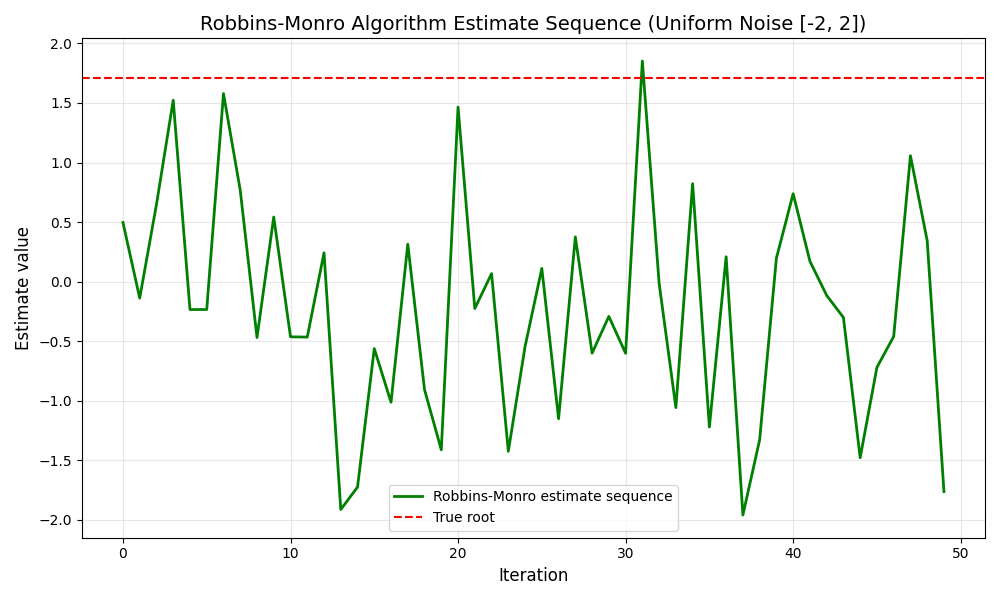
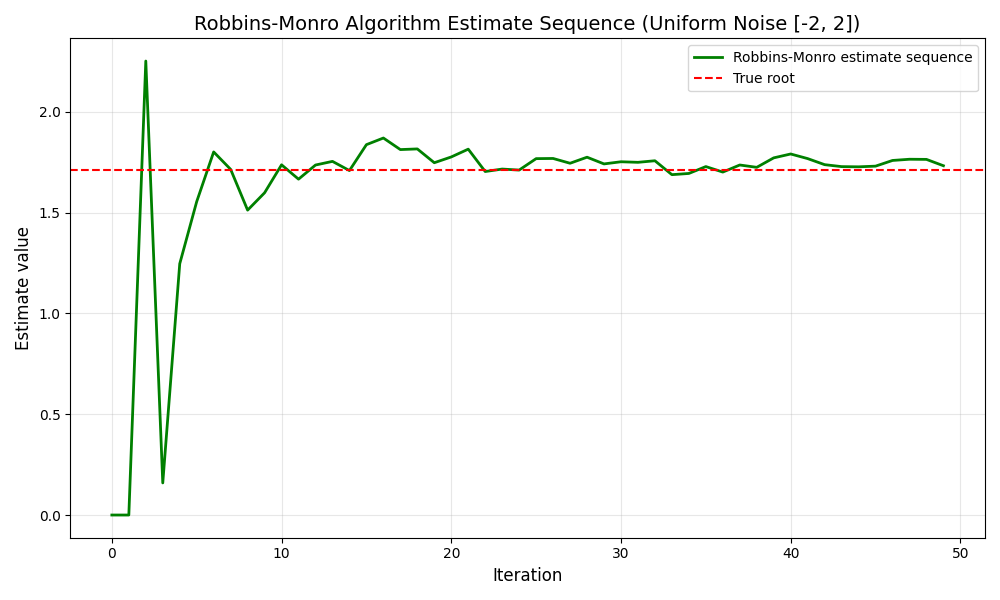
append

diff --git a/rm.py b/rm.py
@@ -17,26 +17,22 @@ initial_estimate = 0.0  # 初始估计值
 # 初始化nws数组，用于存储迭代结果
 nws = np.zeros(n_iterations)
 etas = np.zeros(n_iterations)
-current_estimate = initial_estimate
+nws[1] = 0.0
 
 # 进行迭代计算
-for i in range(n_iterations):
-    # 生成当前迭代的噪声：使用[-2, 2]均匀分布替代正态分布[6,7](@ref)
+for i in range(2, n_iterations):
     eta = np.random.normal(loc=0, scale=1)
     
-    # 计算当前估计点处的带噪声函数值
-    noisy_observation = g(current_estimate) + eta
+    noisy_observation = g(nws[i-1]) + eta
     
-    # Robbins-Monro 更新步骤
-    step_size = 1/(i+1)  # 确保不为零
-    current_estimate = current_estimate - step_size * noisy_observation
+    step_size = 1/(i)
+    step = step_size * noisy_observation
+    nws[i] = nws[i-1] - step
     
-    # 存储当前估计值
-    nws[i] = current_estimate
     etas[i] = eta
 
 # 打印最终估计值
-print(f"Final estimate: {current_estimate}")
+print(f"Final estimate: {nws[n_iterations - 1]}")
 print(f"True root: {5**(1/3)}")
 
 # 创建图形
